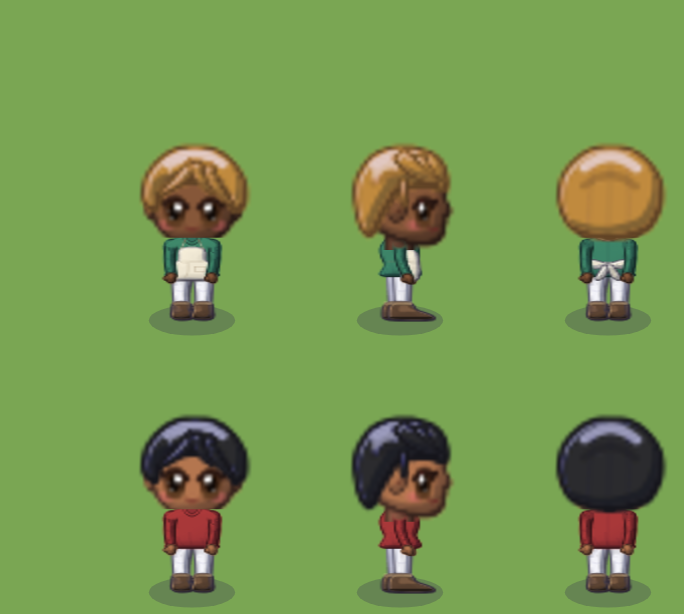
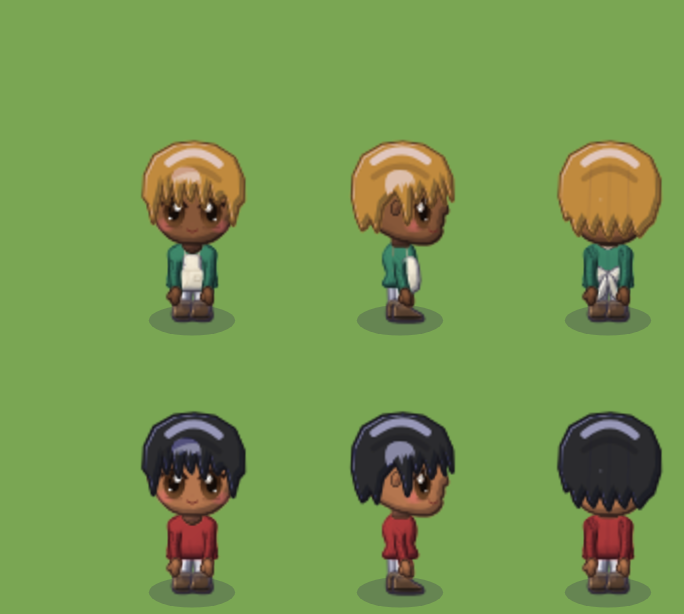
Chibi villagers: native anime proportions, a new face with big shiny eyes and blush, hair as one mass with pointed bangs and spikes (on by default; ART.chibiSet(false) for the old look)
Claude-Session: https://claude.ai/code/session_01TpMhZWkaxwFTz3FA8cTz2J

diff --git a/src/art/painters.ts b/src/art/painters.ts
@@ -1345,6 +1345,15 @@ const KD = {
   adultF: { hh: 5.3, hw: 2.5, nk: 1.15, nkw: 1.25, sh: 3.15, wa: 2.45, hp: 3.3, tl: 7.3, lg: 10.0, ua: 3.3, fa: 3.0, aw: 0.92, thw: 2.45, knw: 1.8, ank: 1.5, eye: 1.1, hnd: 0.7 },
   child:  { hh: 5.8, hw: 2.85, nk: 0.6, nkw: 1.3, sh: 2.8, wa: 2.3, hp: 2.6, tl: 4.8, lg: 6.0, ua: 2.6, fa: 2.3, aw: 0.95, thw: 2.0, knw: 1.65, ank: 1.4, eye: 1.18, hnd: 0.62 },
   infant: { hh: 5.4, hw: 2.95, nk: 0.3, nkw: 1.3, sh: 2.4, wa: 2.2, hp: 2.5, tl: 3.0, lg: 2.4, ua: 1.6, fa: 1.4, aw: 1.25, thw: 2.2, knw: 1.9, ank: 1.6, eye: 1.28, hnd: 0.68 } };
+/* chibi geometry: a big round head, almost no neck, a short soft body. chibiSet() swaps it into KD so every layer is painted at these sizes natively */
+const KD_REAL = JSON.parse(JSON.stringify(KD));
+const KD_CHIBI = {
+  adult:  { hh: 10.2, hw: 5.1, nk: 0.35, nkw: 1.7, sh: 3.0, wa: 2.75, hp: 2.9, tl: 5.0, lg: 4.7, ua: 2.5, fa: 2.2, aw: 1.05, thw: 2.0, knw: 1.75, ank: 1.55, eye: 1.0, hnd: 0.85 },
+  adultF: { hh: 9.9, hw: 4.95, nk: 0.35, nkw: 1.55, sh: 2.75, wa: 2.4, hp: 3.0, tl: 4.8, lg: 4.8, ua: 2.4, fa: 2.1, aw: 0.98, thw: 2.0, knw: 1.7, ank: 1.5, eye: 1.0, hnd: 0.8 },
+  child:  { hh: 8.6, hw: 4.35, nk: 0.25, nkw: 1.4, sh: 2.45, wa: 2.2, hp: 2.35, tl: 3.7, lg: 3.3, ua: 1.95, fa: 1.75, aw: 0.95, thw: 1.75, knw: 1.55, ank: 1.4, eye: 1.0, hnd: 0.72 },
+  infant: { hh: 7.0, hw: 3.7, nk: 0.15, nkw: 1.3, sh: 2.2, wa: 2.1, hp: 2.3, tl: 2.6, lg: 1.9, ua: 1.35, fa: 1.25, aw: 1.2, thw: 2.0, knw: 1.75, ank: 1.5, eye: 1.0, hnd: 0.66 } };
+function chibiSet(on: boolean) { CHIBI.on = on; const src = on ? KD_CHIBI : KD_REAL; for (const k in src) Object.assign(KD[k], src[k]);
+  for (const k in LC) delete LC[k]; for (const k in TINT) delete TINT[k]; if (typeof DOLL_CACHE !== 'undefined') DOLL_CACHE.clear(); }
 const kitOf = age => age < 3 ? 'infant' : age < 16 ? 'child' : 'adult';
 const kitFor = sp => { const k = kitOf(sp.age); return k === 'adult' && sp.female ? 'adultF' : k; };
 const isAdultKit = k => k === 'adult' || k === 'adultF';
@@ -1652,7 +1661,56 @@ function faceSleepL(kit, dir) { const [c, g]: any = frame(), h = hd(kit, dir), {
 function lockPts(A, B, w, bend) { const mx = (A[0] + B[0]) / 2, my = (A[1] + B[1]) / 2, dx = B[0] - A[0], dy = B[1] - A[1], l = Math.hypot(dx, dy) || 1, C = [mx - dy / l * bend, my + dx / l * bend], pts = [], ws = [];
   for (let i = 0; i <= 6; i++) { const t = i / 6, a = (1 - t) * (1 - t), b = 2 * t * (1 - t), c = t * t; pts.push([a * A[0] + b * C[0] + c * B[0], a * A[1] + b * C[1] + c * B[1]]); ws.push(Math.max(0.03, w * (0.72 + 0.28 * Math.min(1, t * 3)) * Math.pow(1 - t, 0.78))); }
   return { poly: tube(pts, ws, { cap0: false, cap1: false, seg: 2 }), pts, w }; }
-function hairStyle(kit, dir, style) { const h = hd(kit, dir), { K, hw, hh, X } = h, s = hw / 3.35, P = h.P, y = h.y, side = dir === 'side', back = dir === 'back';
+function hairStyle(kit, dir, style) { const out = hairStyle0(kit, dir, style); if (CHIBI.on) animeHair(out, kit, dir, style); return out; }
+/* anime hair for chibi: the hair is one mass whose edge is cut into pointed locks (a fringe of points over the forehead, longer locks framing the face,
+   points at the nape) with a few spikes standing up on short hair. The cap of the style is replaced; buns, braids and long hair behind are kept. */
+function animeHair(out, kit, dir, style) { const h = hd(kit, dir), P = h.P, st = style;
+  /* hair hanging below the chin was measured in head heights: with a chibi head that reaches the floor, so pull it up */
+  const squash = (pts) => pts.map(q => { const v = (q[1] - h.top) / h.hh; return v > 0.95 ? [q[0], h.top + (0.95 + (v - 0.95) * 0.38) * h.hh] : q; });
+  for (const l of out.back) if (l.poly) l.poly = squash(l.poly);
+  out.extra = out.extra.map(e => Array.isArray(e) ? squash(e) : e);
+  for (const sx of out.strands) if (sx.tie) { const q = squash([[sx.tie[0], sx.tie[1]]])[0]; sx.tie[1] = q[1]; }
+  if (st === 'bald' || st === 'curly') return;
+  const fem = ['long', 'bob', 'bun', 'braids', 'ponytail'].includes(st), spiky = st === 'short' || st === 'shaggy';
+  const fl = st === 'crop' ? 0.36 : st === 'shaggy' ? 0.56 : fem ? 0.5 : 0.5;                       // how far the fringe comes down (eyes are at 0.64)
+  const sideEnd = fem ? (st === 'bun' ? 0.9 : 1.12) : st === 'shaggy' ? 0.88 : st === 'crop' ? 0.62 : 0.76;
+  const v = st === 'crop' ? 1.0 : st === 'shaggy' ? 1.14 : 1.08;
+  const pts: any[] = [], add = (x, y) => pts.push(P(x, y));
+  /* a curved edge from (x0,y0) to (x1,y1), bowed by b (head widths) */
+  const edge = (x0, y0, x1, y1, b = 0.04, n = 4) => { for (let i = 1; i <= n; i++) { const t = i / n, x = x0 + (x1 - x0) * t, y = y0 + (y1 - y0) * t, k = Math.sin(t * Math.PI) * b; add(x + k * 0.2, y - k); } };
+  const crown = (from, to) => {   // the top of the head, from one side to the other, with spikes on spiky styles
+    const top = [[1.12 * v, 0.46], [1.1 * v, 0.2], [0.9 * v, -0.04], [0.5, -0.17 * v], [0.0, -0.2 * v], [-0.5, -0.17 * v], [-0.9 * v, -0.04], [-1.1 * v, 0.2], [-1.12 * v, 0.46]];
+    const seq = from > 0 ? top : top.slice().reverse(); const spikes = spiky ? (st === 'shaggy' ? [[0.72, -0.3], [0.18, -0.36], [-0.4, -0.34], [-0.95, -0.12]] : [[0.6, -0.28], [0.05, -0.34], [-0.6, -0.27]]) : [];
+    for (let i = 0; i < seq.length; i++) { add(seq[i][0], seq[i][1]); const nx = seq[i + 1]; if (!nx) break;
+      for (const sp of spikes) { const lo = Math.min(seq[i][0], nx[0]), hi = Math.max(seq[i][0], nx[0]); if (sp[0] > lo && sp[0] <= hi) add(sp[0], sp[1] * v); } } };
+  if (dir === 'front') {
+    crown(1, -1);
+    // left side lock down to its point, then the fringe across, then the right side lock
+    add(-1.08, sideEnd - 0.22); add(-0.98, sideEnd); add(-0.84, sideEnd - 0.3); add(-0.82, 0.42);
+    const teeth = fem ? [[-0.62, fl + 0.02], [-0.3, fl - 0.04], [0.02, fl - 0.18], [0.3, fl - 0.02], [0.62, fl + 0.04]] : [[-0.66, fl], [-0.36, fl + 0.04], [-0.06, fl - 0.02], [0.26, fl + 0.05], [0.58, fl - 0.01]];
+    let px = -0.82, py = 0.42;
+    for (const [tx, ty] of teeth) { const nx = (px + tx) / 2; edge(px, py, nx, 0.24 + (fem && Math.abs(tx) < 0.1 ? -0.06 : 0), 0.03, 2); edge(nx, 0.24, tx, ty, -0.05, 3); px = tx; py = ty; }
+    edge(px, py, 0.82, 0.42, 0.04, 3);
+    add(0.84, sideEnd - 0.3); add(0.98, sideEnd); add(1.08, sideEnd - 0.22);
+    out.cap = pts; out.locks = [];
+  } else if (dir === 'side') {
+    crown(-1, 1);   // from the back round over the top to the front
+    add(1.0, 0.18); edge(1.0, 0.18, 1.04, fl, -0.03, 3); edge(1.04, fl, 0.86, 0.26, 0.02, 2); edge(0.86, 0.26, 0.7, fl + 0.04, -0.04, 3); edge(0.7, fl + 0.04, 0.5, 0.28, 0.02, 2);
+    edge(0.5, 0.28, 0.34, fl - 0.02, -0.04, 3); edge(0.34, fl - 0.02, 0.22, 0.3, 0.02, 2);
+    add(0.2, sideEnd - 0.1); add(0.12, sideEnd); add(0.0, sideEnd - 0.25); add(-0.18, 0.36);   // the lock in front of the ear
+    const nape = fem && st !== 'bun' ? 1.0 : 0.86; add(-0.5, 0.56); edge(-0.5, 0.56, -0.62, nape, -0.04, 2); edge(-0.62, nape, -0.78, 0.7, 0.02, 2); edge(-0.78, 0.7, -0.98, nape - 0.02, -0.04, 2); add(-1.1, 0.7);
+    out.cap = pts; out.locks = [];
+  } else {
+    crown(1, -1);
+    const nape = fem && st !== 'bun' ? 1.0 : 0.9; add(-1.06, 0.72);
+    let px = -1.06, py = 0.72;
+    for (const tx of [-0.75, -0.38, 0.0, 0.38, 0.75]) { const ty = nape + (Math.abs(tx) < 0.1 ? 0.04 : 0), nx = (px + tx) / 2; edge(px, py, nx, nape - 0.2, 0.02, 2); edge(nx, nape - 0.2, tx, ty, -0.04, 2); px = tx; py = ty; }
+    edge(px, py, 1.06, 0.72, 0.02, 2);
+    out.cap = pts; out.locks = [];
+  }
+  out.ring = dir === 'side' ? { a: [-0.7, 0.02], b: [0.6, 0.0], dip: -0.14, th: 0.16 } : { a: [-0.62, 0.04], b: [0.62, 0.04], dip: -0.14, th: 0.16 };
+}
+function hairStyle0(kit, dir, style) { const h = hd(kit, dir), { K, hw, hh, X } = h, s = hw / 3.35, P = h.P, y = h.y, side = dir === 'side', back = dir === 'back';
   const out = { back: [], cap: null, locks: [], extra: [], ring: null, strands: [] };
   const lk = (a, b, w, bend = 0) => { const A = P(a[0], a[1]), B = P(b[0], b[1]); out.locks.push(lockPts(A, B, w * hw * 0.5, bend * hw * 0.5)); };
   const lkb = (a, b, w, bend = 0) => { const A = P(a[0], a[1]), B = P(b[0], b[1]); out.back.push(lockPts(A, B, w * hw * 0.5, bend * hw * 0.5)); };
@@ -1901,7 +1959,7 @@ function workPose(kit, dir, sp, T, id) { const G = geo(kit), K = G.K, q = K.ua /
 /* spec: age, skin, hair, hs, beard, shirt, pat, acc, pants, hat, hatCol, hatOn, robe, role, apron, pose, tool, face {dx,dy}, status, dress, hold, mourning, wave, inv */
 function dollDir(sp) { const f = sp.face || { dx: 0, dy: 1 }; return f.dy > 0 && !f.dx ? 'front' : f.dy < 0 && !f.dx ? 'back' : 'side'; }
 /* Chibi proportions (a trial): a bigger head on a shorter body, so faces read at a glance. Off by default; ART.chibi.on = true to try it. */
-const CHIBI = { on: false, head: 1.75, headW: 1.08, body: 0.6, bodyW: 1.0, kidHead: 1.32, kidBody: 0.74 };
+const CHIBI = { on: false };   // chibiSet(true) at the end of ART: anime proportions, face and hair (chibiSet(false) brings back the old villagers)
 /* the chibi face: big shiny eyes, blush, a dot of a nose and a small mouth (front and side; the back has no face) */
 function chibiFaceL(kit, dir, o: any = {}) { const [c, g]: any = frame(); if (dir === 'back') return c;
   const L = Object.assign({}, LOOK0, o.look || {}), h = hd(kit, dir), { X, hw, hh } = h, side = dir === 'side', ink = '#2a1712', ir = IRIS[L.iris] || IRIS.brown;
@@ -1938,9 +1996,7 @@ function chibiFaceL(kit, dir, o: any = {}) { const [c, g]: any = frame(); if (di
   }
   return c; }
 function drawDoll(g, sp, x, y, k, T = 0) {
-  const kidK = kitFor(sp) === 'child' || kitFor(sp) === 'infant', CH = CHIBI.on ? (kidK ? CHIBI.kidHead : CHIBI.head) : 1, CHW = CHIBI.on && !kidK ? CHIBI.headW : 1;
-  const CBX = CHIBI.on ? CHIBI.bodyW : 1, CBY = CHIBI.on ? (kidK ? CHIBI.kidBody : CHIBI.body) : 1;
-  const kit = kitFor(sp), G = geo(kit), K = G.K, dir = dollDir(sp), f = sp.face || { dx: 0, dy: 1 }, flip = dir === 'side' && f.dx < 0;
+    const kit = kitFor(sp), G = geo(kit), K = G.K, dir = dollDir(sp), f = sp.face || { dx: 0, dy: 1 }, flip = dir === 'side' && f.dx < 0;
   const pose0 = sp.pose || (sp.moving ? 'walk' : 'stand'), wf = Math.floor(T * 9) % 6;
   const hairC = sp.age >= 60 ? GREYH : sp.hair, dress = sp.dress, robe = !!sp.robe || dress === 'bride', shirt = dress === 'bride' ? '#f6f1e8' : dress === 'groom' ? '#2f2c38' : dress === 'mourn' ? '#2a2a30' : sp.shirt;
   const pat = dress ? (dress === 'groom' ? 'collar' : 'plain') : sp.pat, acc = dress === 'groom' ? '#f4efe6' : sp.acc, hatOn = (sp.robe || sp.hatOn || sp.hat === 'toque' || sp.hat === 'helmet' || sp.hat === 'hardhat') && !dress;
@@ -1952,8 +2008,8 @@ function drawDoll(g, sp, x, y, k, T = 0) {
   const X0 = x - DO * k, Y0 = y - DO * k, W = DF * k, key = `${kit}_${dir}`;
   const put = (cv, dy = 0, dx = 0) => g.drawImage(cv, X0 + dx * k, Y0 + dy * k, W, W);
   /* the head is its own thing: it sways a little on the neck, drops if the person slouches, and is as wide as that person's head is */
-  const putH = (cv, dy = 0, dx = 0, clipChin = false) => { const a = (calm ? Math.sin(tt * 0.55) * 0.028 + Math.sin(tt * 1.1 + 1) * 0.01 : 0) + LK.post * 0.012, dyh = Math.max(0, -LK.post) * 0.14, px = X0 + DCX * k, py = Y0 + (G.chin + upDy) * k;
-    g.save(); if (clipChin && CHIBI.on) { g.beginPath(); g.rect(X0 - W, Y0 - W, W * 3, py - Y0 + W + G.K.nk * (dir === 'side' ? 3.2 : 0.95) * k); g.clip(); } g.translate(px, py); g.rotate(dir === 'side' ? a * 0.7 : a); g.scale(LK.hw / LK.bw, 1); if (CHIBI.on) g.scale(CH * CHW / CBX, CH / CBY); g.translate(-px, -py + dyh * k + (CHIBI.on ? G.K.nk * 0.85 * k / CH : 0)); g.drawImage(cv, X0 + dx * k, Y0 + dy * k, W, W); g.restore(); };
+  const putH = (cv, dy = 0, dx = 0) => { const a = (calm ? Math.sin(tt * 0.55) * 0.028 + Math.sin(tt * 1.1 + 1) * 0.01 : 0) + LK.post * 0.012, dyh = Math.max(0, -LK.post) * 0.14, px = X0 + DCX * k, py = Y0 + (G.chin + upDy) * k;
+    g.save(); g.translate(px, py); g.rotate(dir === 'side' ? a * 0.7 : a); g.scale(LK.hw / LK.bw, 1); g.translate(-px, -py + dyh * k); g.drawImage(cv, X0 + dx * k, Y0 + dy * k, W, W); g.restore(); };
   const lay = (name, color, fn, mode?) => { const kk = `${key}_${name}`; const base = L(kk, fn); return color ? tint(base, color, kk, mode) : base; };
   const gp = pose0 === 'walk' ? 'w' + fr : sit ? pose0 : 's';
   const inFrame = fn => { g.save(); g.translate(X0, Y0 + upDy * k); g.scale(k, k); fn(); g.restore(); };
@@ -1961,7 +2017,7 @@ function drawDoll(g, sp, x, y, k, T = 0) {
   g.save(); g.imageSmoothingEnabled = true; g.imageSmoothingQuality = 'high';
   if (flip) { g.translate(x + 12 * k, 0); g.scale(-1, 1); g.translate(-(x + 12 * k), 0); }
   g.fillStyle = 'rgba(40,30,80,.24)'; g.beginPath(); g.ellipse(x + 12 * k, y + (DBY - DO + 0.3) * k, (isAdultKit(kit) ? 5.4 : kit === 'child' ? 3.9 : 3.1) * k, (isAdultKit(kit) ? 1.9 : 1.4) * k, 0, 0, TAU); g.fill();
-  g.save(); { const fx = x + 12 * k, fy = y + (DBY - DO) * k; g.translate(fx, fy); g.scale(LK.ht * LK.bw * CBX, LK.ht * CBY); g.translate(-fx, -fy); }   // this person's height and build
+  g.save(); { const fx = x + 12 * k, fy = y + (DBY - DO) * k; g.translate(fx, fy); g.scale(LK.ht * LK.bw, LK.ht); g.translate(-fx, -fy); }   // this person's height and build
   if (!robe) put(lay(`legs_${gp}`, sp.pants, () => legsL(kit, dir, legPose, fr, false)));
   put(lay(`shoes_${gp}`, null, () => shoesL(kit, dir, legPose, fr, robe)));
   const armsOf = wp ? wp.arms : armRig(kit, dir, pose0 === 'walk' ? 'walk' : sit ? pose0 : 'stand', fr);
@@ -1988,7 +2044,7 @@ function drawDoll(g, sp, x, y, k, T = 0) {
     if ((sp.mourning && !sp.moving) || dress === 'mourn') put(lay('mourn', null, () => clothL(kit, dir, 'stand', 0, 'mourn')), upDy);
     if (dress === 'groom' && dir !== 'back') put(lay('groom', null, () => dressL(kit, dir, 'groom')), upDy);
     if (armsEarly) armBlock();
-    putH(lay('skin', sp.skin, () => skinL(kit, dir, 'stand', 0, {})), upDy, 0, true);
+    putH(lay('skin', sp.skin, () => skinL(kit, dir, 'stand', 0, {})), upDy);
     { const bl = ((T + 1.3 + (sp.id || 0) * 1.37) % 4.1) < 0.15, LK = lookOf(sp); if (CHIBI.on) putH(lay((bl ? 'cface_blink_' : 'cface_') + LK.iris + LK.mouth, null, () => chibiFaceL(kit, dir, { blink: bl, look: LK })), upDy); else putH(lay((bl ? 'face_blink_' : 'face_') + lookSig(LK), null, () => faceL(kit, dir, 'stand', 0, { blink: bl, look: LK })), upDy); }
     if (sp.beard && sp.age >= 18 && dir !== 'back') putH(lay(`bd_${sp.beard}`, hairC, () => beardL(kit, dir, sp.beard), 'overlay'), upDy);
     putH(lay(`hf_${sp.hs}`, hairC, () => hairL(kit, dir, sp.hs, 'front'), 'overlay'), upDy);
@@ -2282,7 +2338,8 @@ function drawDollLOD(g, sp, x, y, T, Z) {
   } else { DOLL_CACHE.delete(key); DOLL_CACHE.set(key, e); }   // most recently used goes to the back
   g.drawImage(e.cv, x - DO - DOLL_PAD, y - DO - DOLL_PAD, e.size, e.size);
 }
-return { Q, S, FR, DF, DO, TP, BLK, terr, water, overlay, frameOf, BYID, ITEMS, h32, mul, drawDoll, drawDollLOD, drawSleeper, roomDress, kitOf, chibi: CHIBI };
+chibiSet(true);
+return { Q, S, FR, DF, DO, TP, BLK, terr, water, overlay, frameOf, BYID, ITEMS, h32, mul, drawDoll, drawDollLOD, drawSleeper, roomDress, kitOf, chibi: CHIBI, chibiSet };
 
 })();
 

diff --git a/dist/index.html b/dist/index.html
@@ -5124,6 +5124,21 @@ const ART = (function() {
     child: { hh: 5.8, hw: 2.85, nk: 0.6, nkw: 1.3, sh: 2.8, wa: 2.3, hp: 2.6, tl: 4.8, lg: 6, ua: 2.6, fa: 2.3, aw: 0.95, thw: 2, knw: 1.65, ank: 1.4, eye: 1.18, hnd: 0.62 },
     infant: { hh: 5.4, hw: 2.95, nk: 0.3, nkw: 1.3, sh: 2.4, wa: 2.2, hp: 2.5, tl: 3, lg: 2.4, ua: 1.6, fa: 1.4, aw: 1.25, thw: 2.2, knw: 1.9, ank: 1.6, eye: 1.28, hnd: 0.68 }
   };
+  const KD_REAL = JSON.parse(JSON.stringify(KD));
+  const KD_CHIBI = {
+    adult: { hh: 10.2, hw: 5.1, nk: 0.35, nkw: 1.7, sh: 3, wa: 2.75, hp: 2.9, tl: 5, lg: 4.7, ua: 2.5, fa: 2.2, aw: 1.05, thw: 2, knw: 1.75, ank: 1.55, eye: 1, hnd: 0.85 },
+    adultF: { hh: 9.9, hw: 4.95, nk: 0.35, nkw: 1.55, sh: 2.75, wa: 2.4, hp: 3, tl: 4.8, lg: 4.8, ua: 2.4, fa: 2.1, aw: 0.98, thw: 2, knw: 1.7, ank: 1.5, eye: 1, hnd: 0.8 },
+    child: { hh: 8.6, hw: 4.35, nk: 0.25, nkw: 1.4, sh: 2.45, wa: 2.2, hp: 2.35, tl: 3.7, lg: 3.3, ua: 1.95, fa: 1.75, aw: 0.95, thw: 1.75, knw: 1.55, ank: 1.4, eye: 1, hnd: 0.72 },
+    infant: { hh: 7, hw: 3.7, nk: 0.15, nkw: 1.3, sh: 2.2, wa: 2.1, hp: 2.3, tl: 2.6, lg: 1.9, ua: 1.35, fa: 1.25, aw: 1.2, thw: 2, knw: 1.75, ank: 1.5, eye: 1, hnd: 0.66 }
+  };
+  function chibiSet(on) {
+    CHIBI.on = on;
+    const src = on ? KD_CHIBI : KD_REAL;
+    for (const k in src) Object.assign(KD[k], src[k]);
+    for (const k in LC) delete LC[k];
+    for (const k in TINT) delete TINT[k];
+    if (typeof DOLL_CACHE !== "undefined") DOLL_CACHE.clear();
+  }
   const kitOf = (age) => age < 3 ? "infant" : age < 16 ? "child" : "adult";
   const kitFor = (sp) => {
     const k = kitOf(sp.age);
@@ -6219,6 +6234,109 @@ const ART = (function() {
     return { poly: tube(pts, ws, { cap0: false, cap1: false, seg: 2 }), pts, w };
   }
   function hairStyle(kit, dir, style) {
+    const out = hairStyle0(kit, dir, style);
+    if (CHIBI.on) animeHair(out, kit, dir, style);
+    return out;
+  }
+  function animeHair(out, kit, dir, style) {
+    const h = hd(kit, dir), P = h.P, st = style;
+    const squash = (pts2) => pts2.map((q) => {
+      const v2 = (q[1] - h.top) / h.hh;
+      return v2 > 0.95 ? [q[0], h.top + (0.95 + (v2 - 0.95) * 0.38) * h.hh] : q;
+    });
+    for (const l of out.back) if (l.poly) l.poly = squash(l.poly);
+    out.extra = out.extra.map((e) => Array.isArray(e) ? squash(e) : e);
+    for (const sx of out.strands) if (sx.tie) {
+      const q = squash([[sx.tie[0], sx.tie[1]]])[0];
+      sx.tie[1] = q[1];
+    }
+    if (st === "bald" || st === "curly") return;
+    const fem = ["long", "bob", "bun", "braids", "ponytail"].includes(st), spiky = st === "short" || st === "shaggy";
+    const fl = st === "crop" ? 0.36 : st === "shaggy" ? 0.56 : fem ? 0.5 : 0.5;
+    const sideEnd = fem ? st === "bun" ? 0.9 : 1.12 : st === "shaggy" ? 0.88 : st === "crop" ? 0.62 : 0.76;
+    const v = st === "crop" ? 1 : st === "shaggy" ? 1.14 : 1.08;
+    const pts = [], add2 = (x, y) => pts.push(P(x, y));
+    const edge = (x0, y0, x1, y1, b = 0.04, n = 4) => {
+      for (let i = 1; i <= n; i++) {
+        const t = i / n, x = x0 + (x1 - x0) * t, y = y0 + (y1 - y0) * t, k = Math.sin(t * Math.PI) * b;
+        add2(x + k * 0.2, y - k);
+      }
+    };
+    const crown2 = (from, to) => {
+      const top = [[1.12 * v, 0.46], [1.1 * v, 0.2], [0.9 * v, -0.04], [0.5, -0.17 * v], [0, -0.2 * v], [-0.5, -0.17 * v], [-0.9 * v, -0.04], [-1.1 * v, 0.2], [-1.12 * v, 0.46]];
+      const seq = from > 0 ? top : top.slice().reverse();
+      const spikes = spiky ? st === "shaggy" ? [[0.72, -0.3], [0.18, -0.36], [-0.4, -0.34], [-0.95, -0.12]] : [[0.6, -0.28], [0.05, -0.34], [-0.6, -0.27]] : [];
+      for (let i = 0; i < seq.length; i++) {
+        add2(seq[i][0], seq[i][1]);
+        const nx = seq[i + 1];
+        if (!nx) break;
+        for (const sp of spikes) {
+          const lo = Math.min(seq[i][0], nx[0]), hi = Math.max(seq[i][0], nx[0]);
+          if (sp[0] > lo && sp[0] <= hi) add2(sp[0], sp[1] * v);
+        }
+      }
+    };
+    if (dir === "front") {
+      crown2(1, -1);
+      add2(-1.08, sideEnd - 0.22);
+      add2(-0.98, sideEnd);
+      add2(-0.84, sideEnd - 0.3);
+      add2(-0.82, 0.42);
+      const teeth = fem ? [[-0.62, fl + 0.02], [-0.3, fl - 0.04], [0.02, fl - 0.18], [0.3, fl - 0.02], [0.62, fl + 0.04]] : [[-0.66, fl], [-0.36, fl + 0.04], [-0.06, fl - 0.02], [0.26, fl + 0.05], [0.58, fl - 0.01]];
+      let px = -0.82, py = 0.42;
+      for (const [tx, ty] of teeth) {
+        const nx = (px + tx) / 2;
+        edge(px, py, nx, 0.24 + (fem && Math.abs(tx) < 0.1 ? -0.06 : 0), 0.03, 2);
+        edge(nx, 0.24, tx, ty, -0.05, 3);
+        px = tx;
+        py = ty;
+      }
+      edge(px, py, 0.82, 0.42, 0.04, 3);
+      add2(0.84, sideEnd - 0.3);
+      add2(0.98, sideEnd);
+      add2(1.08, sideEnd - 0.22);
+      out.cap = pts;
+      out.locks = [];
+    } else if (dir === "side") {
+      crown2(-1, 1);
+      add2(1, 0.18);
+      edge(1, 0.18, 1.04, fl, -0.03, 3);
+      edge(1.04, fl, 0.86, 0.26, 0.02, 2);
+      edge(0.86, 0.26, 0.7, fl + 0.04, -0.04, 3);
+      edge(0.7, fl + 0.04, 0.5, 0.28, 0.02, 2);
+      edge(0.5, 0.28, 0.34, fl - 0.02, -0.04, 3);
+      edge(0.34, fl - 0.02, 0.22, 0.3, 0.02, 2);
+      add2(0.2, sideEnd - 0.1);
+      add2(0.12, sideEnd);
+      add2(0, sideEnd - 0.25);
+      add2(-0.18, 0.36);
+      const nape = fem && st !== "bun" ? 1 : 0.86;
+      add2(-0.5, 0.56);
+      edge(-0.5, 0.56, -0.62, nape, -0.04, 2);
+      edge(-0.62, nape, -0.78, 0.7, 0.02, 2);
+      edge(-0.78, 0.7, -0.98, nape - 0.02, -0.04, 2);
+      add2(-1.1, 0.7);
+      out.cap = pts;
+      out.locks = [];
+    } else {
+      crown2(1, -1);
+      const nape = fem && st !== "bun" ? 1 : 0.9;
+      add2(-1.06, 0.72);
+      let px = -1.06, py = 0.72;
+      for (const tx of [-0.75, -0.38, 0, 0.38, 0.75]) {
+        const ty = nape + (Math.abs(tx) < 0.1 ? 0.04 : 0), nx = (px + tx) / 2;
+        edge(px, py, nx, nape - 0.2, 0.02, 2);
+        edge(nx, nape - 0.2, tx, ty, -0.04, 2);
+        px = tx;
+        py = ty;
+      }
+      edge(px, py, 1.06, 0.72, 0.02, 2);
+      out.cap = pts;
+      out.locks = [];
+    }
+    out.ring = dir === "side" ? { a: [-0.7, 0.02], b: [0.6, 0], dip: -0.14, th: 0.16 } : { a: [-0.62, 0.04], b: [0.62, 0.04], dip: -0.14, th: 0.16 };
+  }
+  function hairStyle0(kit, dir, style) {
     const h = hd(kit, dir), { K, hw, hh, X } = h, s = hw / 3.35, P = h.P, y = h.y, side = dir === "side", back = dir === "back";
     const out = { back: [], cap: null, locks: [], extra: [], ring: null, strands: [] };
     const lk = (a, b, w, bend = 0) => {
@@ -7164,7 +7282,7 @@ const ART = (function() {
     const f = sp.face || { dx: 0, dy: 1 };
     return f.dy > 0 && !f.dx ? "front" : f.dy < 0 && !f.dx ? "back" : "side";
   }
-  const CHIBI = { on: false, head: 1.75, headW: 1.08, body: 0.6, bodyW: 1, kidHead: 1.32, kidBody: 0.74 };
+  const CHIBI = { on: false };
   function chibiFaceL(kit, dir, o = {}) {
     const [c, g] = frame2();
     if (dir === "back") return c;
@@ -7287,8 +7405,6 @@ const ART = (function() {
     return c;
   }
   function drawDoll(g, sp, x, y, k, T2 = 0) {
-    const kidK = kitFor(sp) === "child" || kitFor(sp) === "infant", CH = CHIBI.on ? kidK ? CHIBI.kidHead : CHIBI.head : 1, CHW = CHIBI.on && !kidK ? CHIBI.headW : 1;
-    const CBX = CHIBI.on ? CHIBI.bodyW : 1, CBY = CHIBI.on ? kidK ? CHIBI.kidBody : CHIBI.body : 1;
     const kit = kitFor(sp), G = geo(kit), K = G.K, dir = dollDir(sp), f = sp.face || { dx: 0, dy: 1 }, flip = dir === "side" && f.dx < 0;
     const pose0 = sp.pose || (sp.moving ? "walk" : "stand"), wf = Math.floor(T2 * 9) % 6;
     const hairC = sp.age >= 60 ? GREYH : sp.hair, dress = sp.dress, robe = !!sp.robe || dress === "bride", shirt = dress === "bride" ? "#f6f1e8" : dress === "groom" ? "#2f2c38" : dress === "mourn" ? "#2a2a30" : sp.shirt;
@@ -7300,19 +7416,13 @@ const ART = (function() {
     const upDy = (pose0 === "sit" ? G.sit : pose0 === "kneel" ? G.kneel : rig.dip) + breath, lean = wp ? wp.lean : 0;
     const X0 = x - DO * k, Y0 = y - DO * k, W2 = DF * k, key = `${kit}_${dir}`;
     const put = (cv, dy = 0, dx = 0) => g.drawImage(cv, X0 + dx * k, Y0 + dy * k, W2, W2);
-    const putH = (cv, dy = 0, dx = 0, clipChin = false) => {
+    const putH = (cv, dy = 0, dx = 0) => {
       const a = (calm ? Math.sin(tt * 0.55) * 0.028 + Math.sin(tt * 1.1 + 1) * 0.01 : 0) + LK.post * 0.012, dyh = Math.max(0, -LK.post) * 0.14, px = X0 + DCX * k, py = Y0 + (G.chin + upDy) * k;
       g.save();
-      if (clipChin && CHIBI.on) {
-        g.beginPath();
-        g.rect(X0 - W2, Y0 - W2, W2 * 3, py - Y0 + W2 + G.K.nk * (dir === "side" ? 3.2 : 0.95) * k);
-        g.clip();
-      }
       g.translate(px, py);
       g.rotate(dir === "side" ? a * 0.7 : a);
       g.scale(LK.hw / LK.bw, 1);
-      if (CHIBI.on) g.scale(CH * CHW / CBX, CH / CBY);
-      g.translate(-px, -py + dyh * k + (CHIBI.on ? G.K.nk * 0.85 * k / CH : 0));
+      g.translate(-px, -py + dyh * k);
       g.drawImage(cv, X0 + dx * k, Y0 + dy * k, W2, W2);
       g.restore();
     };
@@ -7356,7 +7466,7 @@ const ART = (function() {
     {
       const fx = x + 12 * k, fy = y + (DBY - DO) * k;
       g.translate(fx, fy);
-      g.scale(LK.ht * LK.bw * CBX, LK.ht * CBY);
+      g.scale(LK.ht * LK.bw, LK.ht);
       g.translate(-fx, -fy);
     }
     if (!robe) put(lay(`legs_${gp}`, sp.pants, () => legsL(kit, dir, legPose, fr, false)));
@@ -7401,7 +7511,7 @@ const ART = (function() {
       if (sp.mourning && !sp.moving || dress === "mourn") put(lay("mourn", null, () => clothL(kit, dir, "stand", 0, "mourn")), upDy);
       if (dress === "groom" && dir !== "back") put(lay("groom", null, () => dressL(kit, dir, "groom")), upDy);
       if (armsEarly) armBlock();
-      putH(lay("skin", sp.skin, () => skinL(kit, dir, "stand", 0, {})), upDy, 0, true);
+      putH(lay("skin", sp.skin, () => skinL(kit, dir, "stand", 0, {})), upDy);
       {
         const bl = (T2 + 1.3 + (sp.id || 0) * 1.37) % 4.1 < 0.15, LK2 = lookOf(sp);
         if (CHIBI.on) putH(lay((bl ? "cface_blink_" : "cface_") + LK2.iris + LK2.mouth, null, () => chibiFaceL(kit, dir, { blink: bl, look: LK2 })), upDy);
@@ -8107,7 +8217,8 @@ const ART = (function() {
     }
     g.drawImage(e.cv, x - DO - DOLL_PAD, y - DO - DOLL_PAD, e.size, e.size);
   }
-  return { Q, S, FR, DF, DO, TP, BLK, terr, water, overlay, frameOf, BYID, ITEMS, h32, mul, drawDoll, drawDollLOD, drawSleeper: drawSleeper2, roomDress, kitOf, chibi: CHIBI };
+  chibiSet(true);
+  return { Q, S, FR, DF, DO, TP, BLK, terr, water, overlay, frameOf, BYID, ITEMS, h32, mul, drawDoll, drawDollLOD, drawSleeper: drawSleeper2, roomDress, kitOf, chibi: CHIBI, chibiSet };
 })();
 let W = 128, H = 84;
 const TS = 24;
